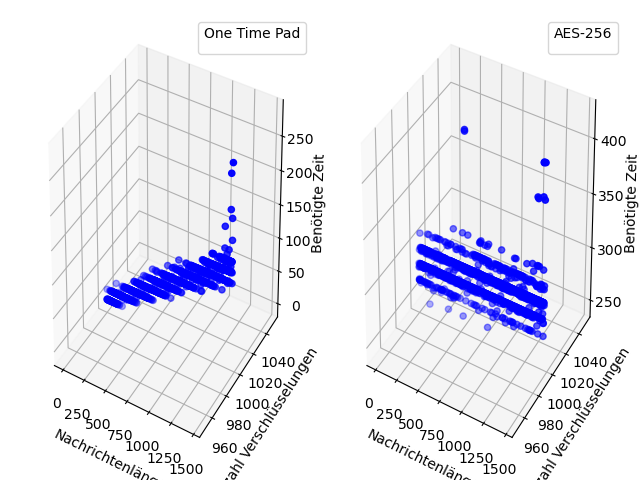
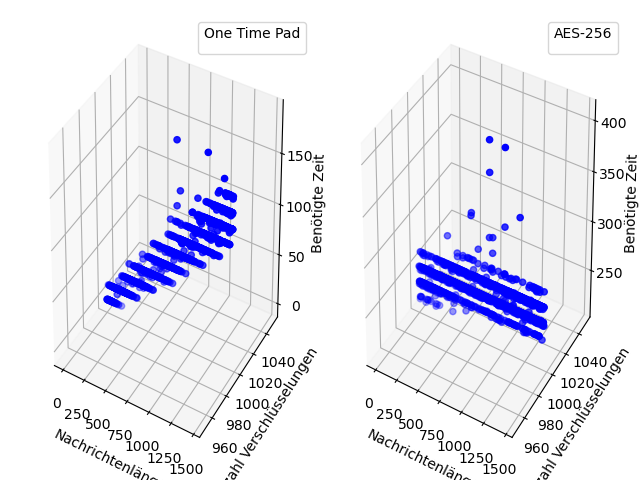
proofv3

diff --git a/tests.py b/tests.py
@@ -1,8 +1,41 @@
-import sys
-import os
-print(sys.version)
-import pandas as pd
+from Crypto.Cipher import AES
+import onetimepad
+from random import choice
+from string import ascii_uppercase
 
-df = pd.read_pickle("Z:/mycm_crypto/CryptEval/dummy_LengthVStime_raspi.pkl")
+AESkey = "baaaaaaaaaaaaaaaaaaaaaaaaaaaaaaa".encode('utf8')
+AESmsg = "hello, there".encode('utf8')
 
-print(df)
+print(AESmsg)
+# print(AESmsg.encode('utf8'))
+
+cipher = AES.new(AESkey, AES.MODE_EAX)
+
+cipher = AES.new(AESkey, AES.MODE_EAX)
+nonce = cipher.nonce
+ciphertext = cipher.encrypt(AESmsg)
+
+print(ciphertext)
+
+d_cipher = AES.new(AESkey, AES.MODE_EAX, cipher.nonce)
+
+# cipher.update()
+
+cleartext = d_cipher.decrypt(ciphertext)
+
+
+print(cleartext.decode('utf8'))
+
+
+
+otp_cipher = onetimepad.encrypt('some text', 'andom_key')
+print(otp_cipher)
+
+otp_msg = onetimepad.decrypt(otp_cipher, 'andom_key')
+print(otp_msg)
+
+def createMSGorKEY(in_length):
+    ret = ''.join(choice(ascii_uppercase) for i in range(in_length)).encode('utf8')
+    return ret
+
+print(createMSGorKEY(8))

diff --git a/SHANNONvsAES.py b/SHANNONvsAES.py
@@ -14,7 +14,9 @@ def OTPenc(OTPmessage, OTPkey, AESkey, AnzahlVorgaenge):
     begin_otp = datetime.datetime.now()
 
     for i in range(1, AnzahlVorgaenge):
-        # onetimepad.encrypt(str(OTPmessage), str(OTPkey))
+        # onetimepad.encrypt(OTPmessage, OTPkey)
+
+        # evtl in's als strings
         for m, k in zip(OTPmessage, OTPkey):
             my_otp = m ^ k
 
@@ -31,7 +33,8 @@ def AESenc(AESmessage, OTPkey, AESkey, AnzahlVorgaenge):
     for i in range(1, AnzahlVorgaenge):
         cipher = AES.new(AESkey, AES.MODE_EAX)
         nonce = cipher.nonce
-        ciphertext, tag = cipher.encrypt_and_digest(AESmessage)
+        #ciphertext, tag = cipher.encrypt_and_digest(AESmessage)
+        ciphertext = cipher.encrypt(AESmessage)
 
     end_aes = datetime.datetime.now()
     time_diff_aes = end_aes - begin_aes

diff --git a/my_parameters.py b/my_parameters.py
@@ -1,7 +1,6 @@
-AnzahlVerschluesselungen_iter = 1000 # ursprünglich bei konst: 150
-Nachrichtenlaenge_iter = 1460 #  ursprünglich bei konst: 1410
+AnzahlVerschluesselungen_iter = 1000 # ursprünglich bei konst: 1000
+Nachrichtenlaenge_iter = 1460 #  ursprünglich bei konst: 1460
 
-Nachrichtenlaenge_iter_2 = 1300
 
 AnzahlVerschluesselungen_raspi = 100
 Nachrichtenlaenge_raspi = 1460
